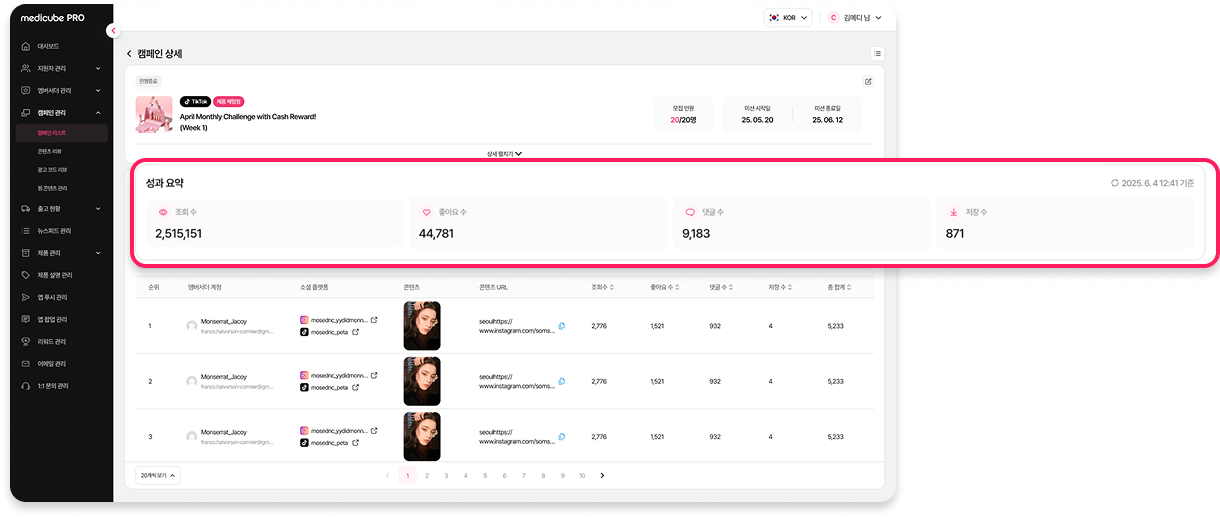
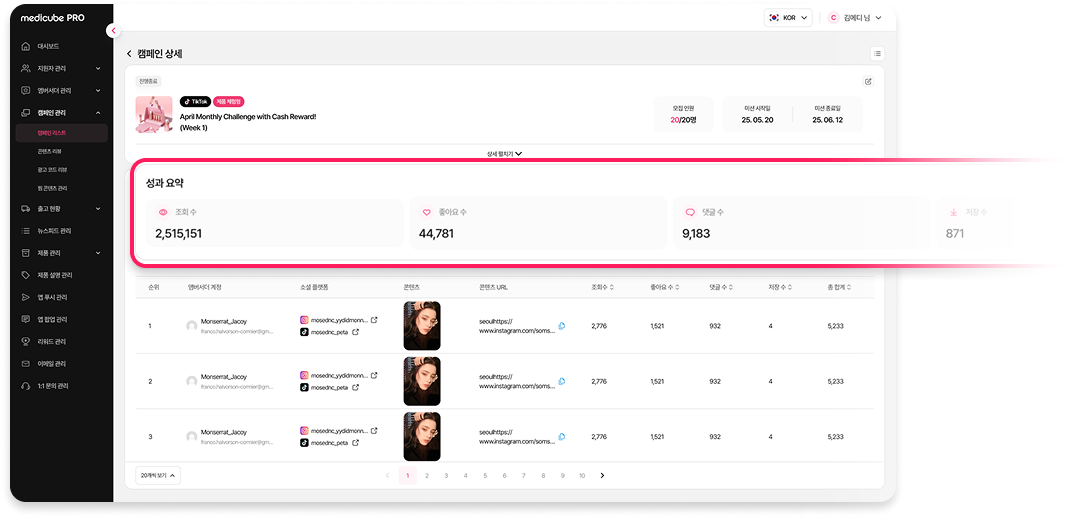
대량 디자인 개선 배치: - medicube PRO/PHOTOGRAY: onboard-flow 이미지 확대 + 프레임 제거(원본 라운드 유지) + 태그형 스텝 캡션, 하단 스크린샷 카드들 사이즈 축소, 성과요약 이미지 우측 크롭+그라데이션 페이드 - PHOTOGRAY 결과 섹션 장식 이미지 확대 - Olive Aid: 소리 에너지 제거 전/후 스펙트로그램 섹션 추가, 이명 일지 정성 조사 표 추가 - Olive Remote Care 히어로 이미지 하단 크롭 - My Olive: 가설 카드 높이 통일(flex), 와이어프레임 라벨 수
Claude-Session: https://claude.ai/code/session_0122gnyiLWGq3M4HFo7HuRu6

diff --git a/projects/photogray.html b/projects/photogray.html
@@ -216,24 +216,24 @@
     <span class="eyebrow">Output</span>
     <h2>콜라보 관리 · 캠페인 운영을 하나의 어드민으로</h2>
     <p style="font-size:13px; color:var(--t3);">프로젝트 진행 단계(요청중 → 디자인 진행중 → 테스트 진행중 → 배포 내역)에 맞춰 탭 메뉴를 구성하고, 각 단계별 화면 UX설계·디자인을 진행했습니다.</p>
-    <img src="../assets/images/appendix/photogray/collab-dashboard.png" alt="콜라보 관리 대시보드: 요청중/디자인 진행중/테스트 진행중/배포 내역 탭" style="width:100%; border-radius:12px; display:block; margin:16px 0 20px; background:#fff; padding:6px;" loading="lazy" />
+    <img src="../assets/images/appendix/photogray/collab-dashboard.png" alt="콜라보 관리 대시보드: 요청중/디자인 진행중/테스트 진행중/배포 내역 탭" style="width:100%; max-width:760px; border-radius:12px; display:block; margin:16px auto 20px; background:#fff; padding:6px;" loading="lazy" />
 
     <div class="onboard-flow-group" style="margin-top:8px;">
       <div class="onboard-flow-label"><span class="step-badge">1</span>신규 콜라보 요청 · STEP1~3</div>
       <div class="onboard-flow">
-        <div class="onboard-flow-step" style="width:190px;">
+        <div class="onboard-flow-step frameless" style="width:260px;">
           <img src="../assets/images/appendix/photogray/step1-collab.png" alt="STEP1 콜라보 상세" loading="lazy" />
-          <p>STEP1 · 콜라보 상세</p>
+          <p class="step-tag">STEP1 · 콜라보 상세</p>
         </div>
         <svg class="onboard-flow-arrow" viewBox="0 0 16 16" fill="none" xmlns="http://www.w3.org/2000/svg"><path d="M3 8h10M9 4l4 4-4 4" stroke="currentColor" stroke-width="1.6" stroke-linecap="round" stroke-linejoin="round"/></svg>
-        <div class="onboard-flow-step" style="width:190px;">
+        <div class="onboard-flow-step frameless" style="width:260px;">
           <img src="../assets/images/appendix/photogray/step2-frame.png" alt="STEP2 프레임 상세" loading="lazy" />
-          <p>STEP2 · 프레임 상세</p>
+          <p class="step-tag">STEP2 · 프레임 상세</p>
         </div>
         <svg class="onboard-flow-arrow" viewBox="0 0 16 16" fill="none" xmlns="http://www.w3.org/2000/svg"><path d="M3 8h10M9 4l4 4-4 4" stroke="currentColor" stroke-width="1.6" stroke-linecap="round" stroke-linejoin="round"/></svg>
-        <div class="onboard-flow-step" style="width:190px;">
+        <div class="onboard-flow-step frameless" style="width:230px;">
           <img src="../assets/images/appendix/photogray/step3-booth.png" alt="STEP3 부스 상세, 미리보기로 실제 화면 확인" loading="lazy" />
-          <p>STEP3 · 부스 상세 + 미리보기</p>
+          <p class="step-tag">STEP3 · 부스 상세 + 미리보기</p>
         </div>
       </div>
       <p style="font-size:13px; margin-top:14px;">부스 유형·프레임 구성·촬영 옵션까지 3단계로 나눠 입력하고, STEP3에서 실제 부스 화면을 미리보기로 바로 확인할 수 있게 설계했습니다.</p>
@@ -256,20 +256,20 @@
 
     <div class="card" style="margin-top:20px;">
       <h3 style="margin-bottom:10px;">진행 상태 배지</h3>
-      <img src="../assets/images/appendix/photogray/design-in-progress.png" alt="디자인 진행중 탭: 프레임진행·부스진행·이미지완료·등록완료 상태 배지가 적용된 리스트" style="width:100%; border-radius:10px; display:block; background:#fff; padding:6px;" loading="lazy" />
+      <img src="../assets/images/appendix/photogray/design-in-progress.png" alt="디자인 진행중 탭: 프레임진행·부스진행·이미지완료·등록완료 상태 배지가 적용된 리스트" style="width:100%; max-width:720px; margin:0 auto; border-radius:10px; display:block;" loading="lazy" />
       <p style="font-size:12px; color:var(--t3); margin-top:10px;">프레임진행 · 부스진행 · 이미지완료 · 등록완료 4단계 상태 배지를 정의해, 리스트만 보고도 각 콜라보가 어느 단계에 있는지 바로 파악할 수 있게 했습니다.</p>
     </div>
 
     <div class="card" style="margin-top:14px;">
       <h3 style="margin-bottom:10px;">콜라보 수정 · 실제 데이터 적용 예시</h3>
-      <img src="../assets/images/appendix/photogray/edit-frame-example.png" alt="콜라보 수정 STEP2, 실제 프레임 이미지가 반영된 예시" style="width:100%; border-radius:10px; display:block; margin-bottom:14px; background:#fff; padding:6px;" loading="lazy" />
-      <img src="../assets/images/appendix/photogray/edit-booth-example.png" alt="콜라보 수정 STEP3, 미리보기로 실제 부스 화면 확인" style="width:100%; border-radius:10px; display:block; background:#fff; padding:6px;" loading="lazy" />
+      <img src="../assets/images/appendix/photogray/edit-frame-example.png" alt="콜라보 수정 STEP2, 실제 프레임 이미지가 반영된 예시" style="width:100%; max-width:720px; margin:0 auto; border-radius:10px; display:block;" loading="lazy" />
+      <img src="../assets/images/appendix/photogray/edit-booth-example.png" alt="콜라보 수정 STEP3, 미리보기로 실제 부스 화면 확인" style="width:100%; max-width:720px; margin:0 auto; border-radius:10px; display:block;" loading="lazy" />
       <p style="font-size:12px; color:var(--t3); margin-top:10px;">등록 후에도 담당자가 직접 프레임·부스 데이터를 수정하고, 미리보기로 실제 화면을 바로 확인하며 재배포할 수 있습니다.</p>
     </div>
 
     <div class="card" style="margin-top:14px;">
       <h3 style="margin-bottom:10px;">배포 내역</h3>
-      <img src="../assets/images/appendix/photogray/deploy-history.png" alt="배포 내역 탭: 콜라보별 라이브 기간, 운영 기간 내일 평균, 배포완료 상태" style="width:100%; border-radius:10px; display:block; background:#fff; padding:6px;" loading="lazy" />
+      <img src="../assets/images/appendix/photogray/deploy-history.png" alt="배포 내역 탭: 콜라보별 라이브 기간, 운영 기간 내일 평균, 배포완료 상태" style="width:100%; max-width:720px; margin:0 auto; border-radius:10px; display:block;" loading="lazy" />
       <p style="font-size:12px; color:var(--t3); margin-top:10px;">콜라보별 라이브 기간과 운영 성과(건수, 내일 평균)를 배포 완료 시점부터 누적 집계해 한 화면에서 확인할 수 있습니다.</p>
     </div>
   </div>

diff --git a/projects/medicube-pro.html b/projects/medicube-pro.html
@@ -160,24 +160,24 @@
     <div class="onboard-flow-group" style="margin-top:16px;">
       <div class="onboard-flow-label"><span class="step-badge">1</span>신규 캠페인 생성 · 리스트 → 기본정보 → 미션가이드 → 앱 확인</div>
       <div class="onboard-flow">
-        <div class="onboard-flow-step" style="width:220px;">
+        <div class="onboard-flow-step frameless" style="width:320px;">
           <img src="../assets/images/appendix/medicube-pro/flow-1-list.png" alt="캠페인 리스트" loading="lazy" />
-          <p>캠페인 리스트</p>
+          <p class="step-tag">캠페인 리스트</p>
         </div>
         <svg class="onboard-flow-arrow" viewBox="0 0 16 16" fill="none" xmlns="http://www.w3.org/2000/svg"><path d="M3 8h10M9 4l4 4-4 4" stroke="currentColor" stroke-width="1.6" stroke-linecap="round" stroke-linejoin="round"/></svg>
-        <div class="onboard-flow-step" style="width:150px;">
+        <div class="onboard-flow-step frameless" style="width:240px;">
           <img src="../assets/images/appendix/medicube-pro/flow-2-step1.png" alt="STEP1 캠페인 기본 정보" loading="lazy" />
-          <p>STEP1 · 기본 정보</p>
+          <p class="step-tag">STEP1 · 기본 정보</p>
         </div>
         <svg class="onboard-flow-arrow" viewBox="0 0 16 16" fill="none" xmlns="http://www.w3.org/2000/svg"><path d="M3 8h10M9 4l4 4-4 4" stroke="currentColor" stroke-width="1.6" stroke-linecap="round" stroke-linejoin="round"/></svg>
-        <div class="onboard-flow-step" style="width:150px;">
+        <div class="onboard-flow-step frameless" style="width:240px;">
           <img src="../assets/images/appendix/medicube-pro/flow-3-step2.png" alt="STEP2 미션 참여 가이드" loading="lazy" />
-          <p>STEP2 · 미션 가이드</p>
+          <p class="step-tag">STEP2 · 미션 가이드</p>
         </div>
         <svg class="onboard-flow-arrow" viewBox="0 0 16 16" fill="none" xmlns="http://www.w3.org/2000/svg"><path d="M3 8h10M9 4l4 4-4 4" stroke="currentColor" stroke-width="1.6" stroke-linecap="round" stroke-linejoin="round"/></svg>
-        <div class="onboard-flow-step" style="width:110px;">
+        <div class="onboard-flow-step frameless" style="width:190px;">
           <img src="../assets/images/appendix/medicube-pro/flow-4-mobile.png" alt="앰버서더 앱에서 확인하는 캠페인 화면" loading="lazy" />
-          <p>앱에서 확인</p>
+          <p class="step-tag">앱에서 확인</p>
         </div>
       </div>
       <p style="font-size:13px; margin-top:14px;">캠페인 유형(제품 체험형/콘텐츠 참여형)과 SNS 채널별로 리워드·해시태그·미션 기간을 설정하면, 앰버서더 앱에 바로 반영되는 구조로 설계했습니다.</p>
@@ -185,25 +185,25 @@
 
     <div class="card" style="margin-top:24px;">
       <h3 style="margin-bottom:10px;">지원자 관리</h3>
-      <img src="../assets/images/appendix/medicube-pro/applicant-mgmt.png" alt="지원자 관리 화면" style="width:100%; border-radius:10px; display:block; background:#fff; padding:6px;" loading="lazy" />
+      <img src="../assets/images/appendix/medicube-pro/applicant-mgmt.png" alt="지원자 관리 화면" style="width:100%; max-width:720px; margin:0 auto; border-radius:10px; display:block; background:#fff; padding:6px;" loading="lazy" />
       <p style="font-size:12px; color:var(--t3); margin-top:10px;">지원자 관리 화면에서 앰버서더 '승인' 시 앱의 모든 화면에 접근 권한이 주어지며, 캠페인에 참여할 수 있는 자격이 부여됩니다.</p>
     </div>
 
     <div class="card" style="margin-top:14px;">
       <h3 style="margin-bottom:10px;">앰버서더 관리</h3>
-      <img src="../assets/images/appendix/medicube-pro/ambassador-mgmt.png" alt="앰버서더 관리 화면" style="width:100%; border-radius:10px; display:block; background:#fff; padding:6px;" loading="lazy" />
+      <img src="../assets/images/appendix/medicube-pro/ambassador-mgmt.png" alt="앰버서더 관리 화면" style="width:100%; max-width:720px; margin:0 auto; border-radius:10px; display:block; background:#fff; padding:6px;" loading="lazy" />
       <p style="font-size:12px; color:var(--t3); margin-top:10px;">승인된 지원자는 앰버서더 관리 화면에서 기본 정보를 확인할 수 있으며, 캠페인 참여 이력 및 제품 발송 내역 등 기타 히스토리를 확인할 수 있습니다.</p>
     </div>
 
     <div class="card" style="margin-top:14px;">
       <h3 style="margin-bottom:10px;">캠페인 상세 · 지원자 선정</h3>
-      <img src="../assets/images/appendix/medicube-pro/campaign-detail.png" alt="캠페인 상세 화면, 지원자 리스트에서 캠페인 참여 대상 선정" style="width:100%; border-radius:10px; display:block; background:#fff; padding:6px;" loading="lazy" />
+      <img src="../assets/images/appendix/medicube-pro/campaign-detail.png" alt="캠페인 상세 화면, 지원자 리스트에서 캠페인 참여 대상 선정" style="width:100%; max-width:720px; margin:0 auto; border-radius:10px; display:block; background:#fff; padding:6px;" loading="lazy" />
       <p style="font-size:12px; color:var(--t3); margin-top:10px;">캠페인별 지원자 리스트에서 참여 대상을 직접 선정할 수 있고, 선정 후에는 번복이 불가능함을 명확히 안내해 실수를 방지했습니다.</p>
     </div>
 
     <div class="card" style="margin-top:14px;">
       <h3 style="margin-bottom:10px;">콘텐츠 리뷰</h3>
-      <img src="../assets/images/appendix/medicube-pro/content-review.png" alt="업로드된 콘텐츠를 그리드로 확인하고 개별 승인·반려 처리하는 화면" style="width:100%; border-radius:10px; display:block; background:#fff; padding:6px;" loading="lazy" />
+      <img src="../assets/images/appendix/medicube-pro/content-review.png" alt="업로드된 콘텐츠를 그리드로 확인하고 개별 승인·반려 처리하는 화면" style="width:100%; max-width:720px; margin:0 auto; border-radius:10px; display:block; background:#fff; padding:6px;" loading="lazy" />
       <p style="font-size:12px; color:var(--t3); margin-top:10px;">앰버서더가 제출한 콘텐츠를 그리드에서 한눈에 확인하고, 개별 항목을 승인·반려 처리할 수 있게 설계했습니다.</p>
     </div>
 

diff --git a/projects/my-olive.html b/projects/my-olive.html
@@ -156,26 +156,26 @@
     <h2>가설 3개 모두 기각: "설명을 더하면 신뢰한다"는 가정이 틀렸다</h2>
     <p>GA 데이터·CS 문의·국가별 서베이 내용을 종합해 사용자 테스트를 기획했습니다. 50~70대, 자사·타사 리모컨/앱 사용 경험 유형(A-1·A-2·B·C)별로 총 7명(남성)을 모집해 인터뷰를 진행했습니다.</p>
 
-    <div class="card-grid cols-3" style="margin-top:16px;">
-      <div class="card">
+    <div class="card-grid cols-3" style="margin-top:16px; align-items:stretch;">
+      <div class="card" style="display:flex; flex-direction:column;">
         <h3 style="margin-bottom:8px;">가설 ①</h3>
-        <p style="font-size:13px;">청력 예방 리포트를 제공하면 사용자들이 청력 손실에 대한 경각심을 느끼고, 제품을 필요로 할 것이다.</p>
+        <p style="font-size:13px; flex:1 1 auto;">청력 예방 리포트를 제공하면 사용자들이 청력 손실에 대한 경각심을 느끼고, 제품을 필요로 할 것이다.</p>
         <div class="callout light" style="margin-top:10px; padding:10px 12px;">
           <span class="chip" style="font-size:11px;">가설 불일치</span>
           <p style="font-size:12.5px; margin-top:6px;">사용자들은 의외로 청력 예방에 경각심을 느끼지 못했고, 리포트 제공은 제품 구매에 중요한 요소가 아니었습니다.</p>
         </div>
       </div>
-      <div class="card">
+      <div class="card" style="display:flex; flex-direction:column;">
         <h3 style="margin-bottom:8px;">가설 ②</h3>
-        <p style="font-size:13px;">모든 화면과 기능을 상세하게 풀어놓으면, 연령층이 높은 사용자도 서비스 기능을 이해하기 쉬울 것이다.</p>
+        <p style="font-size:13px; flex:1 1 auto;">모든 화면과 기능을 상세하게 풀어놓으면, 연령층이 높은 사용자도 서비스 기능을 이해하기 쉬울 것이다.</p>
         <div class="callout light" style="margin-top:10px; padding:10px 12px;">
           <span class="chip" style="font-size:11px;">가설 불일치</span>
           <p style="font-size:12.5px; margin-top:6px;">상세하게 내용을 풀어 튜토리얼을 제공했지만, 제품에 대한 설명이 부족하다는 의견이 전체의 80% 이상을 차지했습니다.</p>
         </div>
       </div>
-      <div class="card">
+      <div class="card" style="display:flex; flex-direction:column;">
         <h3 style="margin-bottom:8px;">가설 ③</h3>
-        <p style="font-size:13px;">컨트롤 화면을 대시보드 형태로 제공하고 세부 설정 옵션을 많이 제공하면, 전문적으로 느껴 신뢰를 갖고 편하게 커스터마이징할 것이다.</p>
+        <p style="font-size:13px; flex:1 1 auto;">컨트롤 화면을 대시보드 형태로 제공하고 세부 설정 옵션을 많이 제공하면, 전문적으로 느껴 신뢰를 갖고 편하게 커스터마이징할 것이다.</p>
         <div class="callout light" style="margin-top:10px; padding:10px 12px;">
           <span class="chip" style="font-size:11px;">가설 불일치</span>
           <p style="font-size:12.5px; margin-top:6px;">대시보드 등 비주얼적인 면보다 기능 중심으로 간단하게 조작하길 원하는 사용자가 90% 이상이었고, 세부 옵션은 초기 세팅 단계에서만 쓰고 이후엔 프리셋 버튼만 사용하는 경우가 대부분이었습니다.</p>
@@ -213,7 +213,7 @@
     </div>
 
     <div class="card" style="margin-top:20px;">
-      <h3 style="margin-bottom:10px;">As-Is → To-Be 개편 예시</h3>
+      <h3 style="margin-bottom:10px;">As-Is → To-Be 개편 와이어프레임</h3>
       <img src="../assets/images/appendix/my-olive/final-tobe.png" alt="As-Is 대시보드형 컨트롤 화면에서 To-Be 상황별 프리셋 중심 컨트롤 화면으로의 개편" style="width:100%; max-width:720px; border-radius:12px; display:block; margin:0 auto; background:#fff; padding:10px;" loading="lazy" />
       <p style="font-size:12px; color:var(--t3); margin-top:10px;">그래프 중심의 대시보드 화면을 TV·Lecture·Outside·Restaurant 등 상황별 프리셋 중심 화면으로 재설계해, 세부 설정 대신 상황에 맞는 프리셋 선택만으로 조작이 끝나도록 단순화했습니다.</p>
     </div>

diff --git a/projects/olive-aid.html b/projects/olive-aid.html
@@ -192,6 +192,35 @@
     <h2>베타 테스트 참여자의 77%가 완화 효과를 보고했다</h2>
     <p style="font-size:13px; color:var(--t3); margin-top:-8px; margin-bottom:20px;">참여자가 직접 작성한 이명 일지와 인터뷰 내용을 종합해 완화 효과를 검증했고, 테라피를 감상하는 기간이 길어질수록 완화 효과가 있었다는 응답 비율도 함께 높아졌습니다.</p>
 
+    <div class="card" style="margin-bottom:20px;">
+      <h3 style="margin-bottom:10px;">소리 에너지 측정: 노치 테라피 적용 전/후</h3>
+      <img src="../assets/images/appendix/olive-aid/spectrogram-before-after.png" alt="좌) 소리 에너지 제거 전, 우) 소리 에너지 제거 후 실측 스펙트로그램" style="width:100%; border-radius:10px; display:block; background:#fff; padding:8px;" loading="lazy" />
+      <div style="display:flex; gap:12px; margin-top:8px;">
+        <p style="font-size:12px; color:var(--t3); flex:1; text-align:center;">좌) 소리 에너지 제거 전</p>
+        <p style="font-size:12px; color:var(--t3); flex:1; text-align:center;">우) 소리 에너지 제거 후</p>
+      </div>
+      <p style="font-size:12px; color:var(--t3); margin-top:10px;">사용자가 찾은 이명 주파수 대역에서 실제로 소리 에너지가 제거됐는지 실측으로 검증했습니다. 우측(제거 후) 그래프에서 해당 대역의 에너지가 눈에 띄게 낮아진 것을 확인할 수 있습니다.</p>
+    </div>
+
+    <div class="card" style="margin-bottom:20px;">
+      <h3 style="margin-bottom:6px;">이명 일지 · 정성적 완화 체감 추적</h3>
+      <p style="font-size:13px; margin-bottom:14px;">"훨씬 좋아졌다" 같은 체감 변화는 수치로 모으기 어려워, 참여자 20명에게 매일 구글폼으로 "이명 일지"를 작성하도록 요청해 정성적 완화 여부를 직접 체크했습니다.</p>
+      <div class="table-wrap">
+        <table>
+          <thead><tr><th>참여자</th><th>기록 기간</th><th>기록 일수</th><th>정성적 완화 체크</th></tr></thead>
+          <tbody>
+            <tr><td>Test0201</td><td>8.18 ~ 9.9</td><td>14일</td><td>○</td></tr>
+            <tr><td>Test0204</td><td>8.18 ~ 9.7</td><td>18일</td><td>○</td></tr>
+            <tr><td>Test0210</td><td>8.18 ~ 9.9</td><td>16일</td><td>○</td></tr>
+            <tr><td>Test0211</td><td>8.18 ~ 9.7</td><td>18일</td><td>○</td></tr>
+            <tr><td>Test0216</td><td>8.18 ~ 9.9</td><td>17일</td><td>○</td></tr>
+            <tr><td>그 외 15명</td><td>8.18 ~ 9.9</td><td>참여자별 상이</td><td>-</td></tr>
+          </tbody>
+        </table>
+      </div>
+      <p style="font-size:12px; color:var(--t3); margin-top:10px;">매일 구글폼으로 기록한 응답을 취합해, 앞선 "테라피 감상 직후 완화 정도"·"차폐 정도" 응답 비율의 근거 데이터로 활용했습니다.</p>
+    </div>
+
     <div class="card-grid">
       <div class="card">
         <h3 style="margin-bottom:10px;">이명 테라피를 통한 차폐 정도</h3>

diff --git a/index.html b/index.html
@@ -62,7 +62,7 @@
           </div>
           <span class="pc-arrow"><svg viewBox="0 0 16 16" fill="none" xmlns="http://www.w3.org/2000/svg" width="18" height="18"><path d="M3 8h10M9 4l4 4-4 4" stroke="currentColor" stroke-width="1.6" stroke-linecap="round" stroke-linejoin="round"/></svg></span>
         </div>
-        <img src="assets/images/logos/jobplanet.png" alt="잡플래닛" style="height:20px; width:auto; display:block; margin:14px 0 10px; align-self:flex-start;" loading="lazy" />
+        <img src="assets/images/logos/jobplanet.png" alt="잡플래닛" style="height:16px; width:auto; display:block; margin:14px 0 10px; align-self:flex-start;" loading="lazy" />
         <div class="pc-title">잡플래닛 홈·GNB 개편: 검색 중심 탐색 허브로 재정의</div>
         <p class="pc-desc">
           홈 진입 후 9/9명이 자발 탐색 없이 이탈하는 문제를 통합 UT로 직접 검증. "범용 개인화는 실패하고
@@ -107,7 +107,7 @@
           </div>
           <span class="pc-arrow"><svg viewBox="0 0 16 16" fill="none" xmlns="http://www.w3.org/2000/svg" width="18" height="18"><path d="M3 8h10M9 4l4 4-4 4" stroke="currentColor" stroke-width="1.6" stroke-linecap="round" stroke-linejoin="round"/></svg></span>
         </div>
-        <img src="assets/images/logos/medicube.png" alt="메디큐브" style="height:25px; width:auto; display:block; margin:14px 0 10px; align-self:flex-start;" loading="lazy" />
+        <img src="assets/images/logos/medicube.png" alt="메디큐브" style="height:16px; width:auto; display:block; margin:14px 0 10px; align-self:flex-start;" loading="lazy" />
         <div class="pc-title">에이지알 블루투스 연동 개선: 복잡한 연동을 한 번에 이해되는 경험으로</div>
         <p class="pc-desc">
           뷰티 디바이스와 앱을 잇는 블루투스 연동 기능을 기획·디자인. 출시 후 발견된 오인지·CS 문제를

diff --git a/assets/css/site.css b/assets/css/site.css
@@ -273,7 +273,7 @@ section.block.tight { padding: 44px 0; }
 
 /* ── 결과 섹션 우측 장식 이미지 ── */
 .result-frame-deco {
-  display: none; position: absolute; top: 0; right: -40px; height: 100%; width: auto; max-width: 340px;
+  display: none; position: absolute; top: 0; right: -80px; height: 100%; width: auto; max-width: 480px;
   object-fit: cover; pointer-events: none;
   -webkit-mask-image: linear-gradient(to bottom, transparent 0%, #000 14%, #000 86%, transparent 100%), linear-gradient(to right, transparent 0%, #000 35%);
   -webkit-mask-composite: source-in;
@@ -586,6 +586,12 @@ a.card:hover { border-color: rgba(91,147,255,.4); transform: translateY(-2px); }
 .onboard-flow-step img { width: 100%; border-radius: 20px; border: 1px solid var(--border-strong); display: block; }
 .onboard-flow-step.frameless img { border: none; border-radius: 0; }
 .onboard-flow-step p { font-size: 13.5px; font-weight: 700; color: var(--t1); text-align: center; margin-top: 10px; line-height: 1.5; }
+.onboard-flow-step p.step-tag {
+  display: inline-flex; margin: 10px auto 0; padding: 5px 14px; border-radius: 100px;
+  background: rgba(91,147,255,.12); border: 1px solid rgba(91,147,255,.35); color: #A9C4FF;
+  font-size: 12.5px; font-weight: 700;
+}
+.onboard-flow-step { display: flex; flex-direction: column; align-items: center; }
 .onboard-flow-arrow { flex: 0 0 auto; color: var(--t3); width: 18px; height: 18px; margin: 0 2px 26px; }
 @media (max-width: 720px) {
   .onboard-flow-step { width: 128px; }
